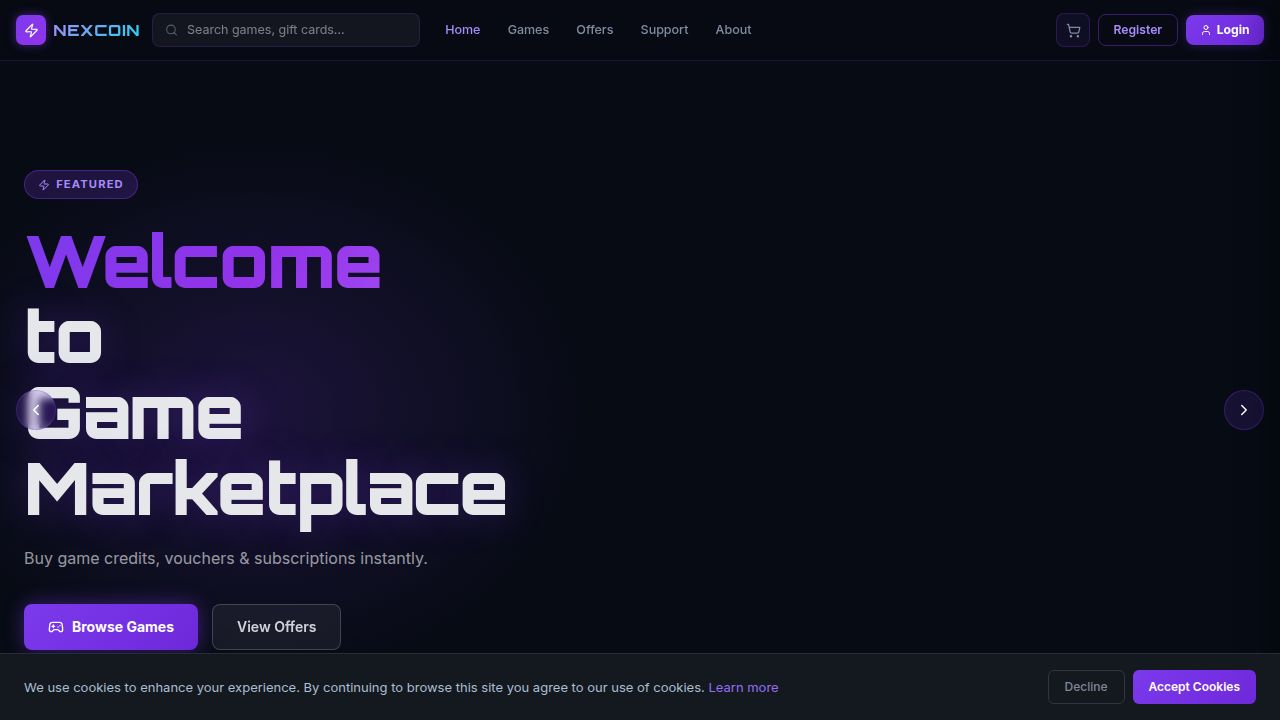
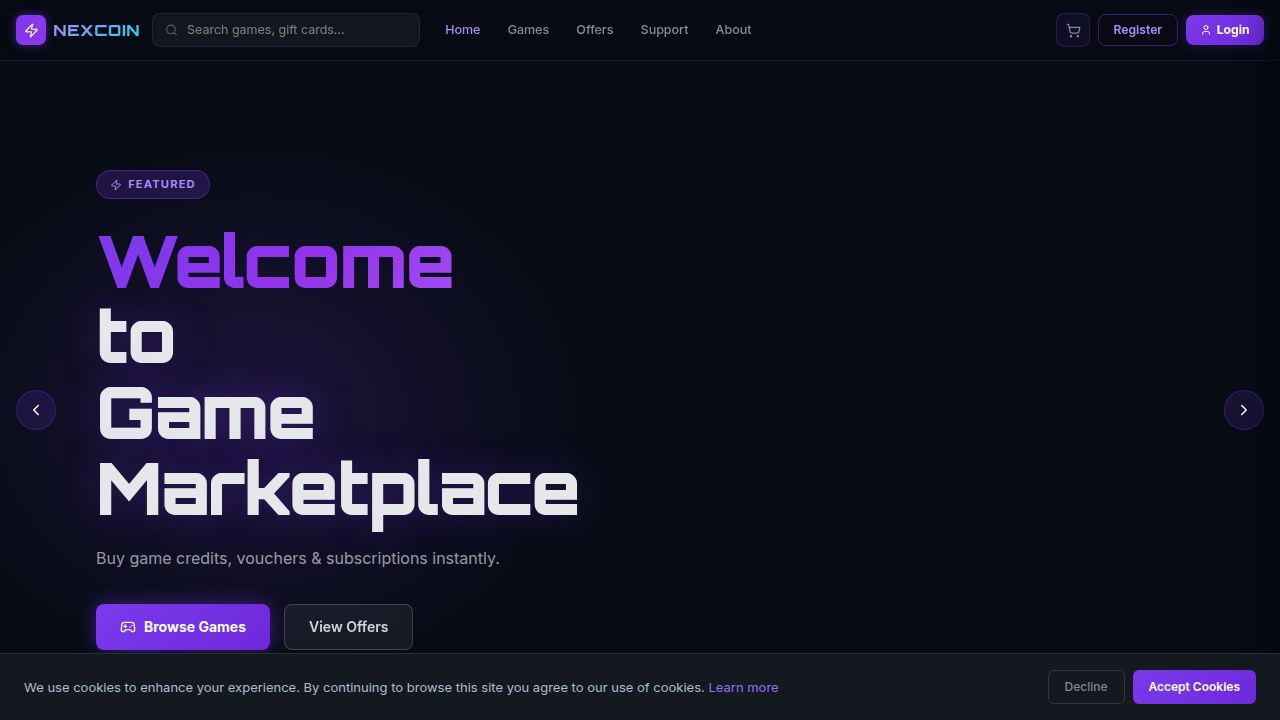
Adjust hero slider text area and restore button positions
Update client/src/pages/Home.tsx to add padding to the text content within the HeroSlider component and reposition the navigation buttons to their original absolute positions on the left and right sides.

Replit-Commit-Author: Agent
Replit-Commit-Session-Id: 7c6ad064-9a4c-4d79-8449-a4ac99a1207f
Replit-Commit-Checkpoint-Type: full_checkpoint
Replit-Commit-Event-Id: 110f077f-86c1-48fb-8a70-7f476160a975
Replit-Commit-Screenshot-Url: https://storage.googleapis.com/screenshot-production-us-central1/d0839f65-401b-4959-833a-f0918f925312/7c6ad064-9a4c-4d79-8449-a4ac99a1207f/jRHNfIP
Replit-Helium-Checkpoint-Created: true

diff --git a/client/src/pages/Home.tsx b/client/src/pages/Home.tsx
@@ -145,7 +145,7 @@ function HeroSlider() {
           alignItems: "center",
         }}
       >
-        <div style={{ maxWidth: "580px" }}>
+        <div style={{ maxWidth: "580px", paddingLeft: "4.5rem", paddingRight: "4.5rem" }}>
           {/* Badge */}
           <div
             style={{
@@ -266,7 +266,63 @@ function HeroSlider() {
         </div>
       </div>
 
-      {/* Dot indicators + nav controls in one row at the bottom */}
+      {/* Slider controls - left and right */}
+      <button
+        onClick={() => goTo((current - 1 + SLIDES.length) % SLIDES.length)}
+        data-testid="button-slide-prev"
+        style={{
+          position: "absolute",
+          left: "1rem",
+          top: "50%",
+          transform: "translateY(-50%)",
+          zIndex: 10,
+          width: "40px",
+          height: "40px",
+          borderRadius: "50%",
+          background: "rgba(124,58,237,0.15)",
+          border: "1px solid rgba(124,58,237,0.3)",
+          color: "white",
+          cursor: "pointer",
+          display: "flex",
+          alignItems: "center",
+          justifyContent: "center",
+          backdropFilter: "blur(4px)",
+          transition: "background 0.2s",
+        }}
+        onMouseEnter={(e) => { e.currentTarget.style.background = "rgba(124,58,237,0.4)"; }}
+        onMouseLeave={(e) => { e.currentTarget.style.background = "rgba(124,58,237,0.15)"; }}
+      >
+        <ChevronLeft size={18} />
+      </button>
+      <button
+        onClick={() => goTo((current + 1) % SLIDES.length)}
+        data-testid="button-slide-next"
+        style={{
+          position: "absolute",
+          right: "1rem",
+          top: "50%",
+          transform: "translateY(-50%)",
+          zIndex: 10,
+          width: "40px",
+          height: "40px",
+          borderRadius: "50%",
+          background: "rgba(124,58,237,0.15)",
+          border: "1px solid rgba(124,58,237,0.3)",
+          color: "white",
+          cursor: "pointer",
+          display: "flex",
+          alignItems: "center",
+          justifyContent: "center",
+          backdropFilter: "blur(4px)",
+          transition: "background 0.2s",
+        }}
+        onMouseEnter={(e) => { e.currentTarget.style.background = "rgba(124,58,237,0.4)"; }}
+        onMouseLeave={(e) => { e.currentTarget.style.background = "rgba(124,58,237,0.15)"; }}
+      >
+        <ChevronRight size={18} />
+      </button>
+
+      {/* Dot indicators */}
       <div
         style={{
           position: "absolute",
@@ -275,36 +331,9 @@ function HeroSlider() {
           transform: "translateX(-50%)",
           zIndex: 10,
           display: "flex",
-          alignItems: "center",
           gap: "0.5rem",
         }}
       >
-        {/* Prev button */}
-        <button
-          onClick={() => goTo((current - 1 + SLIDES.length) % SLIDES.length)}
-          data-testid="button-slide-prev"
-          style={{
-            width: "30px",
-            height: "30px",
-            borderRadius: "50%",
-            background: "rgba(124,58,237,0.15)",
-            border: "1px solid rgba(124,58,237,0.3)",
-            color: "white",
-            cursor: "pointer",
-            display: "flex",
-            alignItems: "center",
-            justifyContent: "center",
-            backdropFilter: "blur(4px)",
-            transition: "background 0.2s",
-            flexShrink: 0,
-          }}
-          onMouseEnter={(e) => { e.currentTarget.style.background = "rgba(124,58,237,0.4)"; }}
-          onMouseLeave={(e) => { e.currentTarget.style.background = "rgba(124,58,237,0.15)"; }}
-        >
-          <ChevronLeft size={15} />
-        </button>
-
-        {/* Dots */}
         {SLIDES.map((_, i) => (
           <button
             key={i}
@@ -322,31 +351,6 @@ function HeroSlider() {
             }}
           />
         ))}
-
-        {/* Next button */}
-        <button
-          onClick={() => goTo((current + 1) % SLIDES.length)}
-          data-testid="button-slide-next"
-          style={{
-            width: "30px",
-            height: "30px",
-            borderRadius: "50%",
-            background: "rgba(124,58,237,0.15)",
-            border: "1px solid rgba(124,58,237,0.3)",
-            color: "white",
-            cursor: "pointer",
-            display: "flex",
-            alignItems: "center",
-            justifyContent: "center",
-            backdropFilter: "blur(4px)",
-            transition: "background 0.2s",
-            flexShrink: 0,
-          }}
-          onMouseEnter={(e) => { e.currentTarget.style.background = "rgba(124,58,237,0.4)"; }}
-          onMouseLeave={(e) => { e.currentTarget.style.background = "rgba(124,58,237,0.15)"; }}
-        >
-          <ChevronRight size={15} />
-        </button>
       </div>
     </section>
   );
